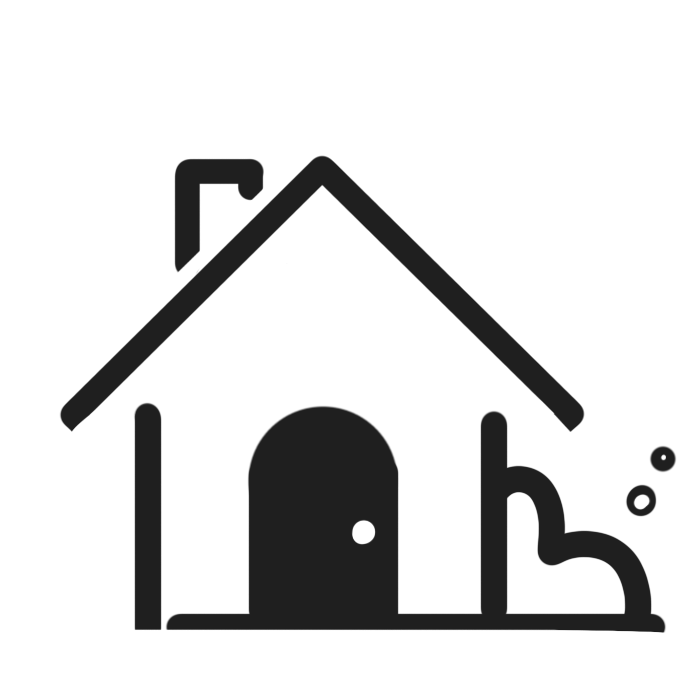
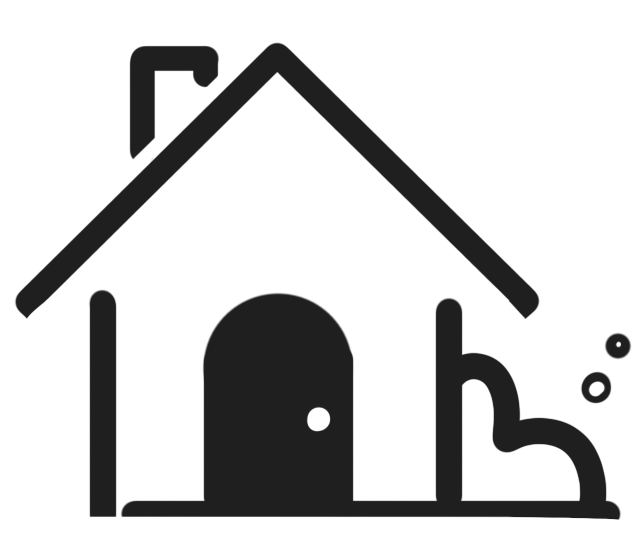
added new home button and cleanup

Changed region(s): [[0.0, 0.0599, 1.0, 0.9888]]

diff --git a/index.html b/index.html
@@ -17,7 +17,7 @@
         <div class="nav-container">
             <nav>
                 <div id="logo">
-                    <a href="#top"><h2>sh</h2></a>
+                    <a href="#top"><img src="./img/Homebutton.png" alt=""></a>
                 </div>
                 <ul>
                     <li><a href="#projects">Projects</a></li>
@@ -100,8 +100,8 @@
                 </div>
                 <div class="person slide-in from-right cara">
                     <div class="about-pic"><img src="./img/cara-pic.jpeg" alt="about pic"></div>
-                    <p>I’m Cara and I’m from Ireland. 
-                       Some fun facts: I can rap in Hungarian, and I really love flumps. 
+                    <p>I’m Cara. 
+                       An Irish violinist turned copywriter. I love flumps and can rap in Hungarian.
                     </p>
                 </div>
             </div>

diff --git a/styles/style.css b/styles/style.css
@@ -200,22 +200,16 @@ nav ul {
 }
 
 nav #logo {
-  display: -webkit-box;
-  display: -ms-flexbox;
-  display: flex;
   -webkit-box-flex: 4;
       -ms-flex: 4;
           flex: 4;
-  height: 80px;
+  height: 60px;
   overflow: hidden;
   color: black;
-  -webkit-box-align: center;
-      -ms-flex-align: center;
-          align-items: center;
 }
 
-nav #logo h2 {
-  font-family: 'Dancing Script', cursive;
+nav #logo img {
+  height: 100%;
 }
 
 .showcase {

diff --git a/html/dobb-in-the-knobbs.html b/html/dobb-in-the-knobbs.html
@@ -15,7 +15,7 @@
         <div class="nav-container">
             <nav>
                 <div id="logo">
-                    <a href="../index.html../index.html#top"><h2>sh</h2></a>
+                    <a href="../index.html#top"><img src="../img/Homebutton.png" alt=""></a>
                 </div>
                 <ul>
                     <li><a href="../index.html#projects">Projects</a></li>

diff --git a/html/hitting-the-right-notes.html b/html/hitting-the-right-notes.html
@@ -15,7 +15,7 @@
         <div class="nav-container">
             <nav>
                 <div id="logo">
-                    <a href="../index.html#top"><h2>sh</h2></a>
+                    <a href="../index.html#top"><img src="../img/Homebutton.png" alt=""></a>
                 </div>
                 <ul>
                     <li><a href="../index.html#projects">Projects</a></li>

diff --git a/html/how-you-end-it.html b/html/how-you-end-it.html
@@ -15,7 +15,7 @@
         <div class="nav-container">
             <nav>
                 <div id="logo">
-                    <a href="../index.html#top"><h2>sh</h2></a>
+                    <a href="../index.html#top"><img src="../img/Homebutton.png" alt=""></a>
                 </div>
                 <ul>
                     <li><a href="../index.html#projects">Projects</a></li>

diff --git a/html/local-shopping.html b/html/local-shopping.html
@@ -15,7 +15,7 @@
         <div class="nav-container">
             <nav>
                 <div id="logo">
-                    <a href="../index.html#top"><h2>sh</h2></a>
+                    <a href="../index.html#top"><img src="../img/Homebutton.png" alt=""></a>
                 </div>
                 <ul>
                     <li><a href="../index.html#projects">Projects</a></li>

diff --git a/html/period-poverty.html b/html/period-poverty.html
@@ -15,7 +15,7 @@
         <div class="nav-container">
             <nav>
                 <div id="logo">
-                    <a href="../index.html#top"><h2>sh</h2></a>
+                    <a href="../index.html#top"><img src="../img/Homebutton.png" alt=""></a>
                 </div>
                 <ul>
                     <li><a href="../index.html#projects">Projects</a></li>

diff --git a/styles/_home.scss b/styles/_home.scss
@@ -28,14 +28,12 @@ nav {
         list-style: none;
     }
     #logo{
-        display: flex;
         flex: 4;
-        height: 80px;
+        height: 60px;
         overflow: hidden;
         color: black;
-        align-items: center;
-        h2 {
-            font-family: 'Dancing Script', cursive;
+        img {
+            height: 100%;
         }
     }
 }
